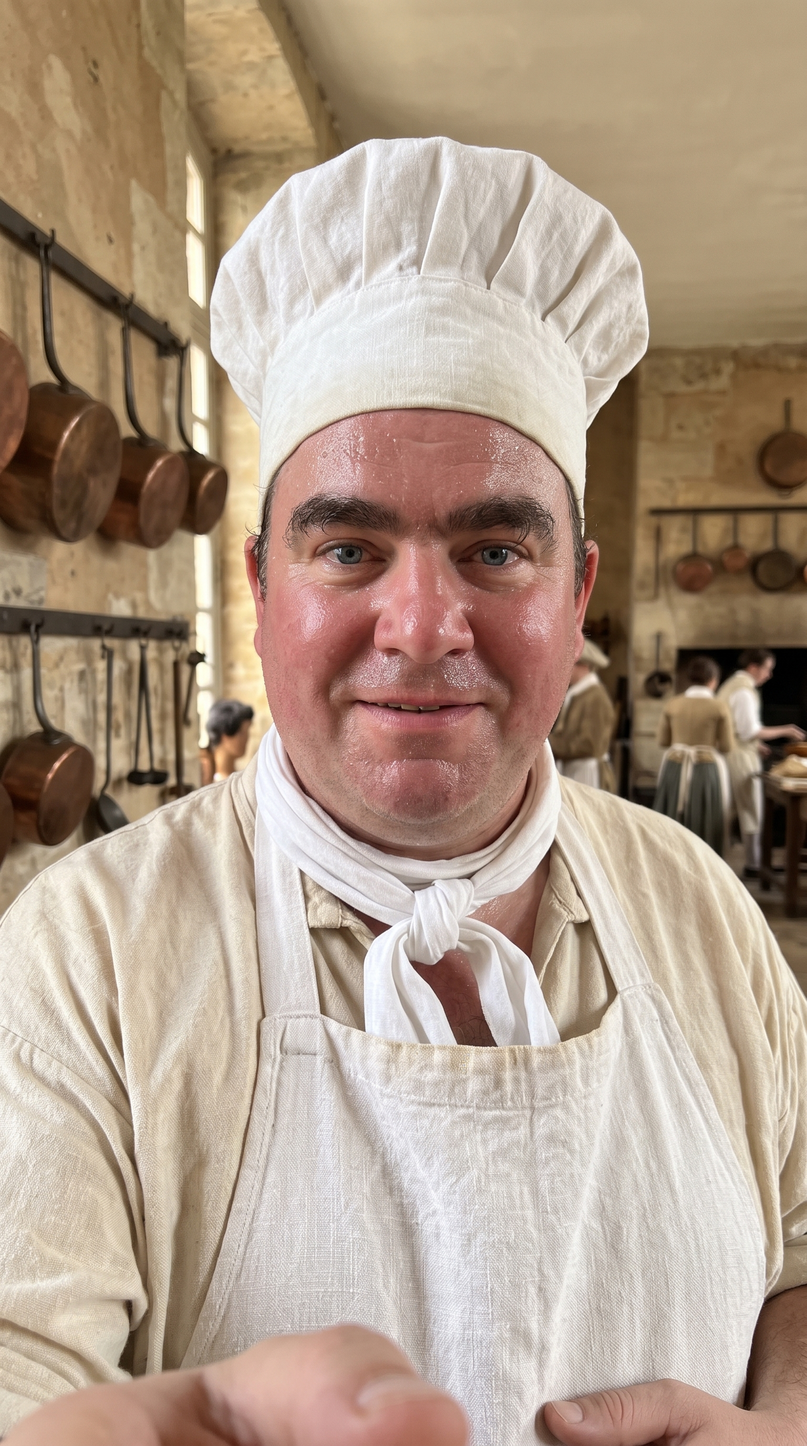
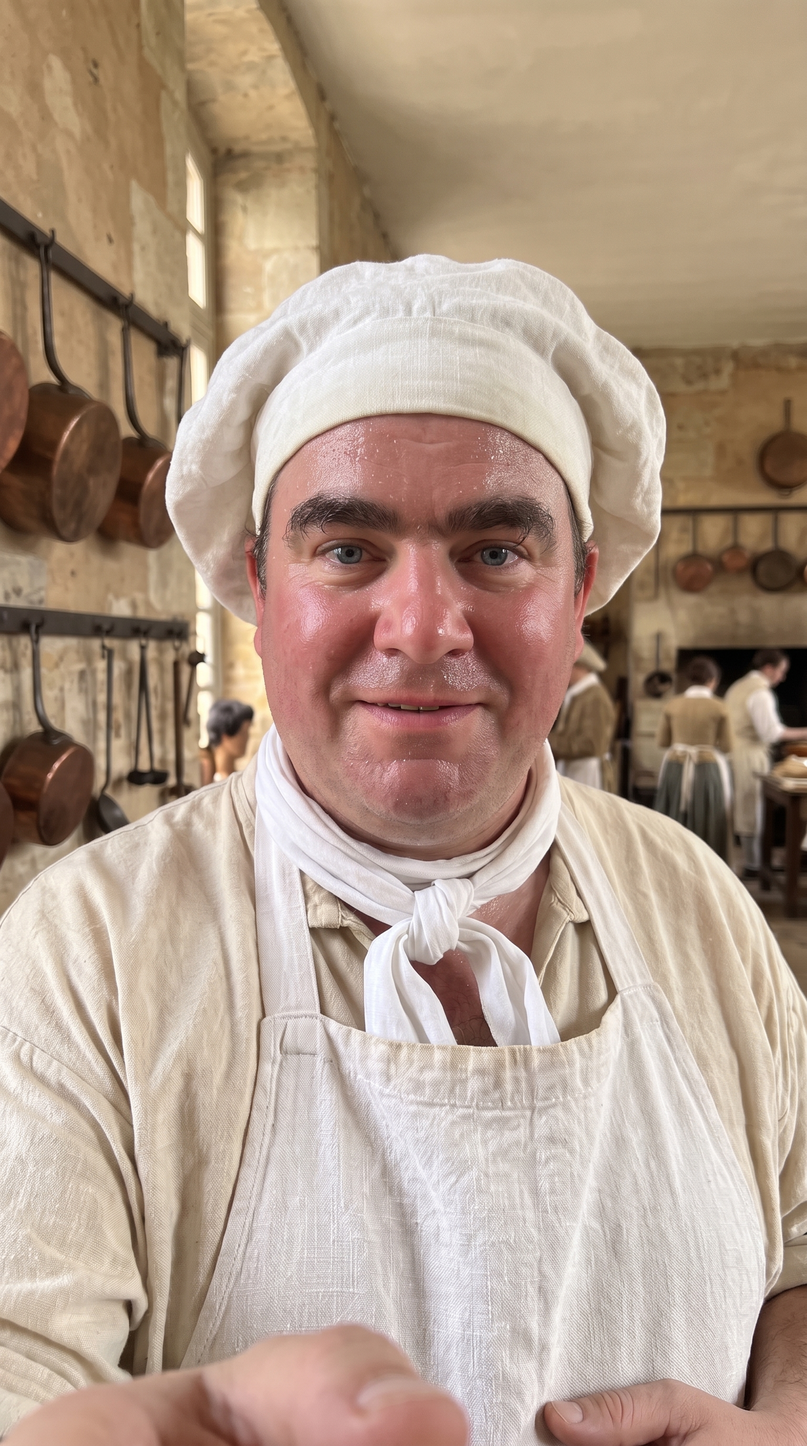
Cook front redone with a period soft linen cap
Claude-Session: https://claude.ai/code/session_01KcWrBtThWhQ2oQ8XkNDupx

diff --git a/map_shorts/history_channel/louis_ep1/gen_character_card.py b/map_shorts/history_channel/louis_ep1/gen_character_card.py
@@ -10,7 +10,7 @@ H0 = "/home/user/beauty-reels-bot/map_shorts/history_channel/"
 K = open("/home/user/beauty-reels-bot/.zernio_key").read().strip(); H = {"Authorization": "Bearer " + K, "Content-Type": "application/json"}
 CH = {"chef": dict(dir="chef_card/", prefix="cook",
     face="a large broad-shouldered man of about 45 with a round, ruddy, sweaty face, a bulbous nose, thick dark bushy eyebrows, small bright blue eyes, a double chin, flushed cheeks, no moustache and no beard, skin shining with sweat",
-    dress="a tall white cook's cap, a white linen apron over a cream shirt with the sleeves rolled to the elbows, a white cloth knotted at the neck; no gold, no red, no wig",
+    dress="a plain soft rounded white linen cap sitting low on the head, with no pleats and not tall, a white linen apron over a cream shirt with the sleeves rolled to the elbows, a white cloth knotted at the neck; no gold, no red, no wig",
     place="a plain warm stone palace kitchen corridor with copper pots hanging on the wall")}
 BASE = "Vertical 9:16 photo, soft even natural light, photorealistic, real skin texture with visible pores. No text. "
 ANG = {"a1_left34": "Head and shoulders, turned three-quarters to HIS left, looking at the lens, neutral.", "a2_right34": "Head and shoulders, turned three-quarters to HIS right, looking at the lens, neutral.",
@@ -54,8 +54,8 @@ def gen(c, name, scene, refs, extra=""):
 c, step = sys.argv[1], sys.argv[2]; ch = CH[c]; P = ch["prefix"]; D = H0 + ch["dir"]
 SAME = " EXACTLY the same man as in the FIRST (and SECOND) reference image: the same face, eyes, brows, nose, chins, skin and age; do not change them. "
 if step == "front":
-    gen(c, P + "_front", "Close front portrait, shoulders and head, looking straight into the lens with an eager, nervous smile.", [H0 + "marcel_card/marcel_front.jpg"],
-        " The light and the period look like the reference image, but he is a DIFFERENT, much older and heavier man: ignore the face, wig and costume in the reference.")
+    gen(c, P + "_front", "Close front portrait, shoulders and head, looking straight into the lens with an eager, nervous smile.", [H0 + "chef_card/cook_front_toque.jpg"],
+        " The reference image shows exactly the right FACE and the right kitchen, apron and neck cloth: keep the same man, face, skin and sweat, but replace the tall pleated chef's toque by a plain soft rounded linen cap with no pleats, as a cook wore in the 1680s.")
 elif step == "three_quarter":
     gen(c, P + "_three_quarter", "Three-quarter view from the waist up, carrying a large copper pot with both hands, glancing at the lens with a nervous smile.", [D + P + "_front.jpg"], SAME)
 else:

diff --git a/map_shorts/history_channel/chef_card/README.md b/map_shorts/history_channel/chef_card/README.md
@@ -13,3 +13,5 @@ Lines (draft, ep.2): "More, Sire? Of course, Sire!" | "The pheasant, Sire... the
 Step 1: cook_front.jpg (front, neutral nervous smile), $0.04, then the owner approves the face.
 Step 2: three-quarters, profiles, back, from below/above, and emotions (neutral, nervous smile, panicked, proud, sweating relief, apologetic, delighted, shocked) as for Marcel: 16 images about $0.64, refs always cook_front.jpg + cook_three_quarter.jpg.
 Rules for every frame with him: descriptor verbatim + "exactly the same face as the first two reference images"; background or edge of the frame; a side-by-side crop is shown to the owner before any video.
+
+## Redo 30.10 (owner "да" to the soft-cap fix; $0.04): cook_front.jpg now has a plain soft rounded linen cap (the first version with the modern toque is kept as cook_front_toque.jpg). INSPECTED: the same man (same face, sweat, brows, light-blue eyes, apron, neck cloth, kitchen), the cap is period-correct (soft, low, no pleats). Soft: a thumb at the bottom edge (selfie look). NOT APPROVED by the owner yet; the 15 further images (about $0.60) wait for the owner's yes.

diff --git a/map_shorts/history_channel/spend_ledger.md b/map_shorts/history_channel/spend_ledger.md
@@ -71,3 +71,4 @@
 | 30.10 | Marcel full card: 16 images, Nano Banana 2.1 | $0.64 (usage.cost 0.04 x 16) |
 | 30.10 | Marcel voice (Edward), Lumean | 0.23 RUB |
 | 30.10 | Maitre Benoit the cook: front image, Nano Banana 2.1 | $0.04 (usage.cost) |
+| 30.10 | Cook front redo with a period cap, Nano Banana 2.1 | $0.04 (usage.cost) |
